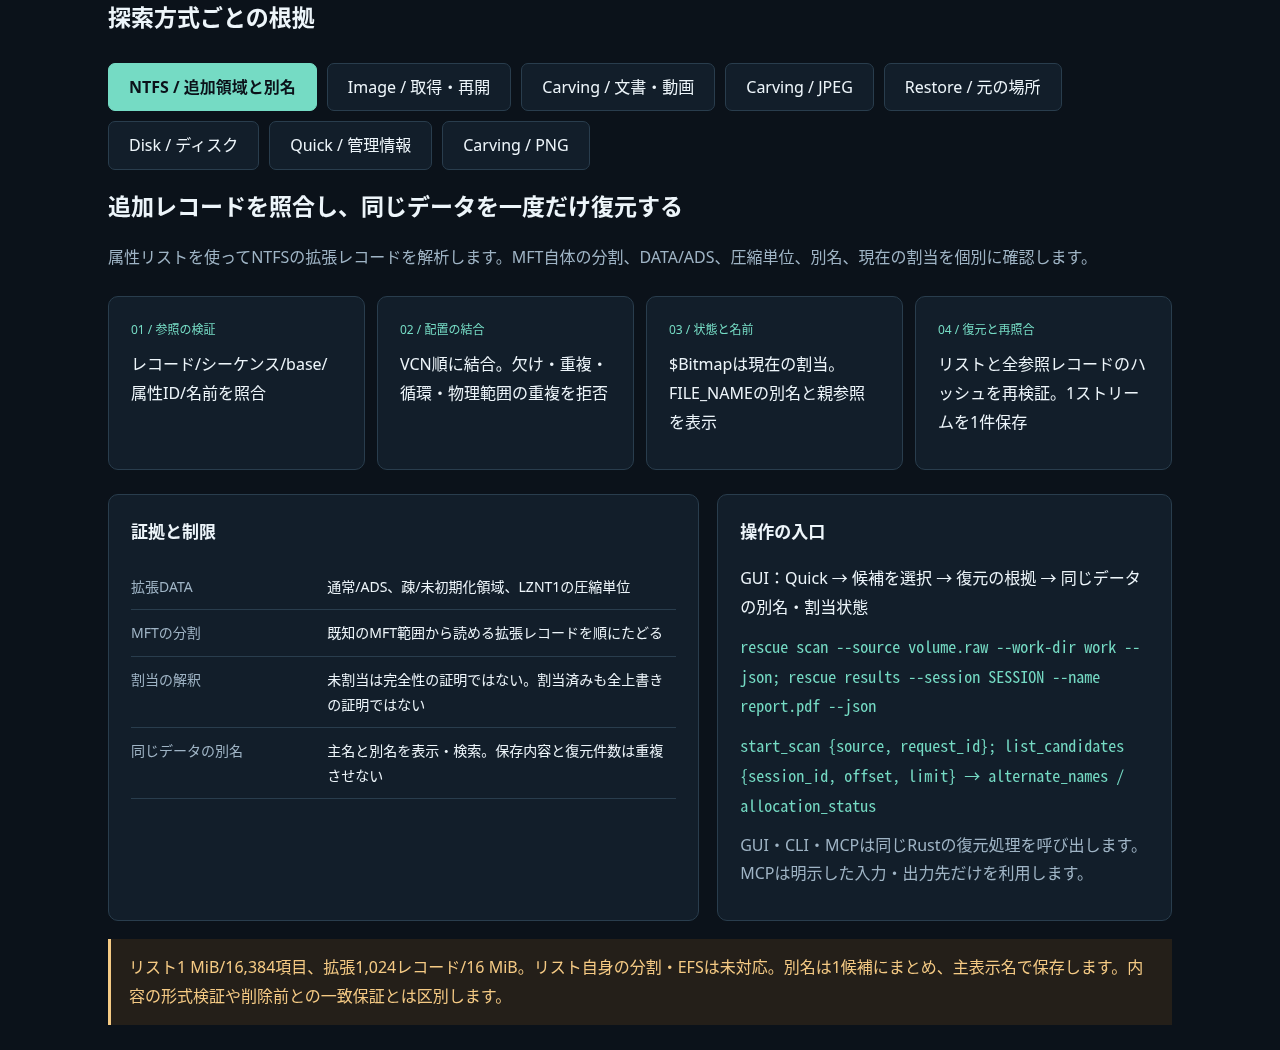
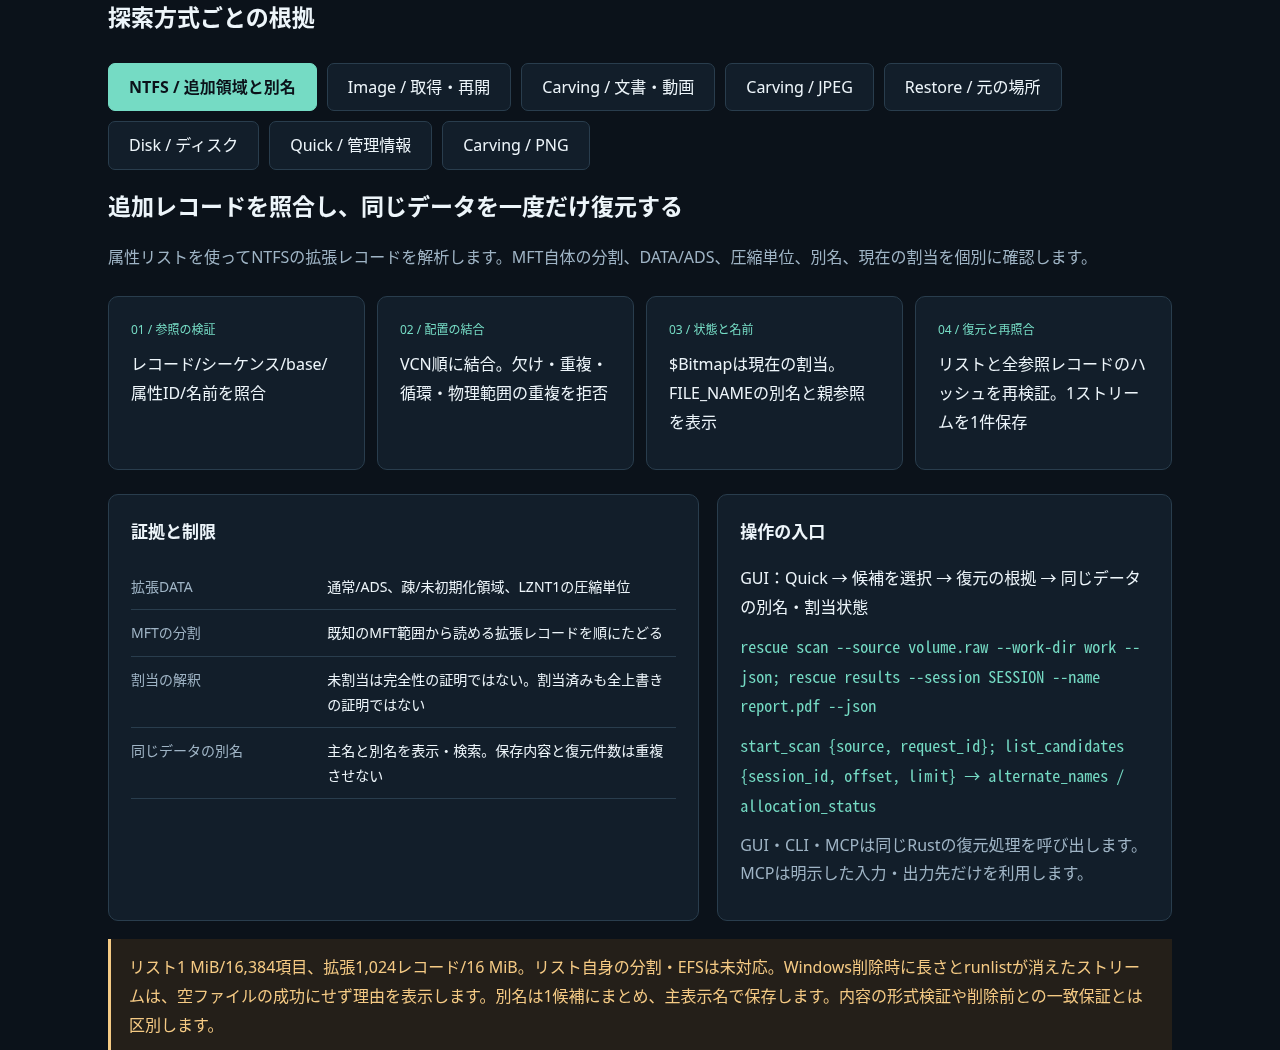
Record four native NTFS profiles and refresh the technical explanation [skip ci]

Changed region(s): [[0.0625, 0.9143, 0.9375, 1.0]]

diff --git a/docs/intelligence.html b/docs/intelligence.html
@@ -42,7 +42,7 @@
 <noscript><p class="notice">方式の切替にはJavaScriptを使用します。ディスクの概要・制限・検証の説明はこのまま読めます。</p></noscript>
 </main><script>
 const modes={
-ntfs:{"title": "追加レコードを照合し、同じデータを一度だけ復元する", "description": "属性リストを使ってNTFSの拡張レコードを解析します。MFT自体の分割、DATA/ADS、圧縮単位、別名、現在の割当を個別に確認します。", "steps": [["参照の検証", "レコード/シーケンス/base/属性ID/名前を照合"], ["配置の結合", "VCN順に結合。欠け・重複・循環・物理範囲の重複を拒否"], ["状態と名前", "$Bitmapは現在の割当。FILE_NAMEの別名と親参照を表示"], ["復元と再照合", "リストと全参照レコードのハッシュを再検証。1ストリームを1件保存"]], "rows": [["拡張DATA", "通常/ADS、疎/未初期化領域、LZNT1の圧縮単位"], ["MFTの分割", "既知のMFT範囲から読める拡張レコードを順にたどる"], ["割当の解釈", "未割当は完全性の証明ではない。割当済みも全上書きの証明ではない"], ["同じデータの別名", "主名と別名を表示・検索。保存内容と復元件数は重複させない"]], "gui": "GUI：Quick → 候補を選択 → 復元の根拠 → 同じデータの別名・割当状態", "cli": "rescue scan --source volume.raw --work-dir work --json; rescue results --session SESSION --name report.pdf --json", "mcp": "start_scan {source, request_id}; list_candidates {session_id, offset, limit} → alternate_names / allocation_status", "limit": "リスト1 MiB/16,384項目、拡張1,024レコード/16 MiB。リスト自身の分割・EFSは未対応。別名は1候補にまとめ、主表示名で保存します。内容の形式検証や削除前との一致保証とは区別します。"},
+ntfs:{"title": "追加レコードを照合し、同じデータを一度だけ復元する", "description": "属性リストを使ってNTFSの拡張レコードを解析します。MFT自体の分割、DATA/ADS、圧縮単位、別名、現在の割当を個別に確認します。", "steps": [["参照の検証", "レコード/シーケンス/base/属性ID/名前を照合"], ["配置の結合", "VCN順に結合。欠け・重複・循環・物理範囲の重複を拒否"], ["状態と名前", "$Bitmapは現在の割当。FILE_NAMEの別名と親参照を表示"], ["復元と再照合", "リストと全参照レコードのハッシュを再検証。1ストリームを1件保存"]], "rows": [["拡張DATA", "通常/ADS、疎/未初期化領域、LZNT1の圧縮単位"], ["MFTの分割", "既知のMFT範囲から読める拡張レコードを順にたどる"], ["割当の解釈", "未割当は完全性の証明ではない。割当済みも全上書きの証明ではない"], ["同じデータの別名", "主名と別名を表示・検索。保存内容と復元件数は重複させない"]], "gui": "GUI：Quick → 候補を選択 → 復元の根拠 → 同じデータの別名・割当状態", "cli": "rescue scan --source volume.raw --work-dir work --json; rescue results --session SESSION --name report.pdf --json", "mcp": "start_scan {source, request_id}; list_candidates {session_id, offset, limit} → alternate_names / allocation_status", "limit": "リスト1 MiB/16,384項目、拡張1,024レコード/16 MiB。リスト自身の分割・EFSは未対応。Windows削除時に長さとrunlistが消えたストリームは、空ファイルの成功にせず理由を表示します。別名は1候補にまとめ、主表示名で保存します。内容の形式検証や削除前との一致保証とは区別します。"},
 imaging:{"title": "読めた範囲を記録して、イメージから復元する", "description": "原媒体は読み取り専用。RAWと読取マップを一緒に保管し、未読・成功・失敗を分けます。読めなかった範囲をゼロとして復元しません。", "steps": [["初回取得", "大きなブロックで読める範囲を保存。失敗は記録して進む"], ["追加パス", "失敗範囲だけセクター単位に分割。既定2回の追加試行"], ["同期と再開", "RAW同期 → マップ同期。再開時に全保存済みブロックをSHA-256照合"], ["解析と復元", "マップを確認して解析。欠損するファイルは不完全とし、位置をレポートへ"]], "rows": [["記録する情報", "元媒体ID・容量・セクター、範囲・時刻・試行回数・OSエラー・成功ブロックSHA-256"], ["クラッシュ", "有効な末尾までを採用。途中のCRC破損・不正範囲は拒否"], ["並行アクセス", "単一書込所有者。解析中は共有読取ロックで取得の書込を止める"], ["状態の解釈", "読取成功は取得したバイトの状態。削除前と同じ内容を保証する根拠とは別"]], "gui": "GUI：ディスク選択 → イメージを作成・再開 → 読取マップを確認 → イメージをスキャン", "cli": "rescue image --source /dev/sdb --destination /media/backup/acquired --resume --json", "mcp": "start_image {source, destination, resume, request_id}; get_read_map {image, offset, limit, map_digest}", "limit": "物理元ディスクからの取得は別媒体へ。RAWと.rmapを保管します。ドライバー応答待ちでは取消が遅れる場合があります。最大16 MiBブロック、512 MiBジャーナル、1,048,576区間。機器の修理やハードウェア専用機の代替ではありません。"},
 documents:{"title": "文書と動画を、内部の参照と長さから確かめる", "description": "PDF・ZIP/Office・MP4/MOVの連続配置を探します。構造の整合性を検証し、描画や動画の全フレーム復号を行った状態とは区別します。", "steps": [["探索", "PDF/ZIP/ftypを読取窓の境界も含め検出"], ["参照と長さ", "PDFのxref・ページ階層 / ZIPの管理情報 / 動画のサンプル表"], ["整合性", "ZIPの全CRCと展開長 / 動画サンプルがmdat内にあること"], ["再検証と保存", "ソースを再解析・全体SHA-256照合 → 元バイトを保存"]], "rows": [["PDF", "classic xref、Prev、間接参照、stream長。EOFの範囲は推定"], ["ZIP / Office", "stored/DEFLATE、ZIP64、全CRC。名前空間付きXMLでOfficeを分類"], ["MP4 / MOV", "非fragmented、ftyp、moov/mdat、全サンプル範囲。コーデックは未復号"], ["確認できないこと", "元名・日時・割当・削除状態、元の内容との一致"]], "gui": "GUI：詳細設定 → 写真・文書・動画 / Carving → 拡張子 → スキャン → 選択 → 復元", "cli": "rescue scan --source disk.raw --mode carve --extension pdf,docx,mp4 --work-dir work --json", "mcp": "start_scan {source, mode: \"carve\", extensions: [\"pdf\", \"docx\", \"mp4\"], request_id}", "limit": "1候補64 MiB。ZIP展開合計128 MiB、4096エントリー。PDFのxref stream/暗号化、fragmented動画/size=0/外部メディアは未対応。構造検証は削除前の内容との一致保証ではありません。"},
 jpeg:{title:'管理情報のないJPEGを、圧縮データまで確かめる',description:'通常・プログレッシブJPEGを探索します。セグメントの終端を見つけるだけでなく、画像全体を満たす圧縮データを独立検査してから画素を展開します。JPEGは再圧縮せず元バイトで保存します。',steps:[['探索','窓をまたぐSOI署名を検出。jpg／jpeg／jpeは同じ形式'],['構造','表・寸法・成分・SOS・EOIを境界内で検証'],['圧縮データと画素','全MCU・係数・リスタート・パディング → 画素展開'],['再検証と保存','画像全体のSHA-256を再照合 → フォルダー／ZIP']],rows:[['配置の根拠','8ビットHuffman DCT、SOF0／SOF1／SOF2の連続したデータ'],['プログレッシブ','全成分・係数帯が最終ビットまで揃うことを確認'],['未知の情報','元の名前・階層・日時・割当・削除状態'],['保存結果','元バイトを保存。構造の整合性は削除前の内容との一致保証ではない']],gui:'GUI：詳細設定 → 写真・文書・動画 / Carving → 拡張子 jpeg → スキャン → 選択 → 復元',cli:'rescue scan --mode carve --extension jpg --source image.raw --work-dir work --json',mcp:'start_scan {source, mode: "carve", extensions: ["jpeg"], request_id}',limit:'連続配置のみ。埋込サムネイルや使用中画像も候補になります。Exif／ICCの意味は未検証。元のパスが不明なのでフォルダーかZIPへ保存します。'},

diff --git a/docs/RELEASE-v0.2.md b/docs/RELEASE-v0.2.md
@@ -28,7 +28,7 @@ Rust40項目、11統合群、NTFSの27条件を通過しました。
 
 既存GUIの元の場所36件・ZIP36件・JPEG33件・文書/動画7件に加え、512 MiBの取得・再開照合・128範囲の読取マップ・取得後の36件復元を再検証しました。
 すべて正解データと照合し、ZIP CRCも確認しています。
-4環境のネイティブCIと、Windowsの実削除NTFS/ADS試験を実行してから公開します。Windowsのresidentストリームの復元と、non-residentストリームの削除時に長さ・runlistが消える条件を別々に検証します。後者を空ファイルの復元成功にしない保護を追加しました。
+[Windows・Linux・macOS Intel/ARMの4ネイティブVM](https://github.com/Xenoah/rescue-deletedfiles_rust/actions/runs/41995682532)で通過しました。Windowsの実削除では21本のresidentストリームがCLI/MCPで全バイト一致。non-residentはTRIM通知の有効/無効を別々に試験し、削除時に長さ・runlistが消えるケースを空ファイルの復元成功にしないことを確認しました。
 
 `ntfs-results-*.json`、`ntfs-native-windows-x64.json`、`gui-ntfs-results.json`を検証結果として添付します。
 

diff --git a/docs/V1_ACCEPTANCE.md b/docs/V1_ACCEPTANCE.md
@@ -7,7 +7,7 @@
 | 項目 | 現在の状態 | 完了に必要な検証 |
 | --- | --- | --- |
 | NTFS/FAT32/exFATの基本復元、断片化、疎領域、LZNT1、ADS | alpha.9で検証済み | 後続変更後にも既存回帰試験を通す |
-| NTFS属性リスト、割当ビットマップ、複数リンク名 | alpha.12で実装・ローカル27条件・独立生成・実GUI検証、4環境を準備 | 拡張レコード、循環、再利用、重複範囲、割当競合 |
+| NTFS属性リスト、割当ビットマップ、複数リンク名 | alpha.12で27条件・独立生成・実GUI・4ネイティブVMを検証、公開実物は配布後 | 拡張レコード、循環、再利用、重複範囲、割当競合 |
 | PNG/JPEG carving | alpha.9で検証済み | 各形式の既存正解・破損コーパスを継続実行 |
 | PDF/ZIP/Office/MP4/MOV carving | alpha.10のプロファイルで4 OS/CPU環境を検証済み | 終端・参照・長さ・CRC、欠損、不正サイズ、選択範囲、CLI/MCP一致 |
 | 消失領域と破損ブートの探索 | 未完了 | 検証済み仮想領域、バックアップ、偽署名、重複候補、元媒体不変 |
